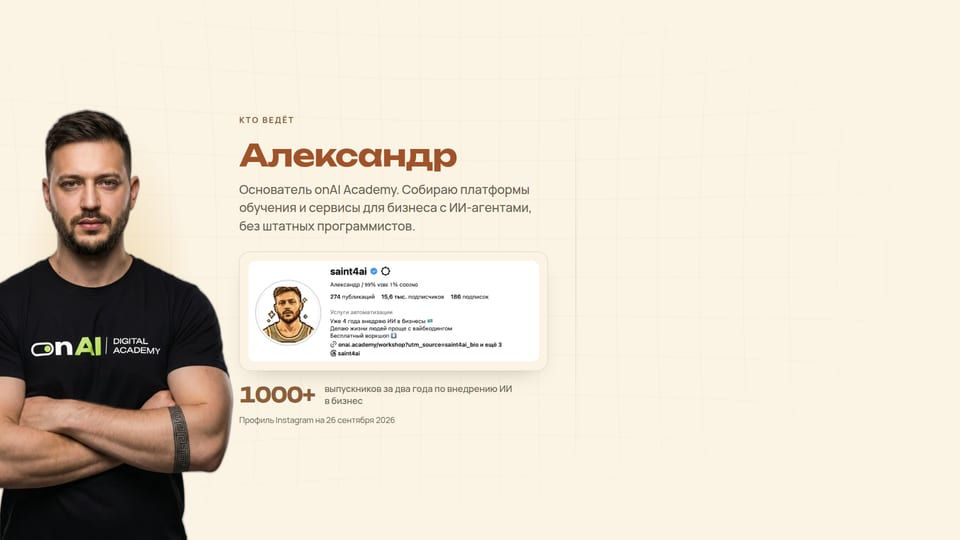
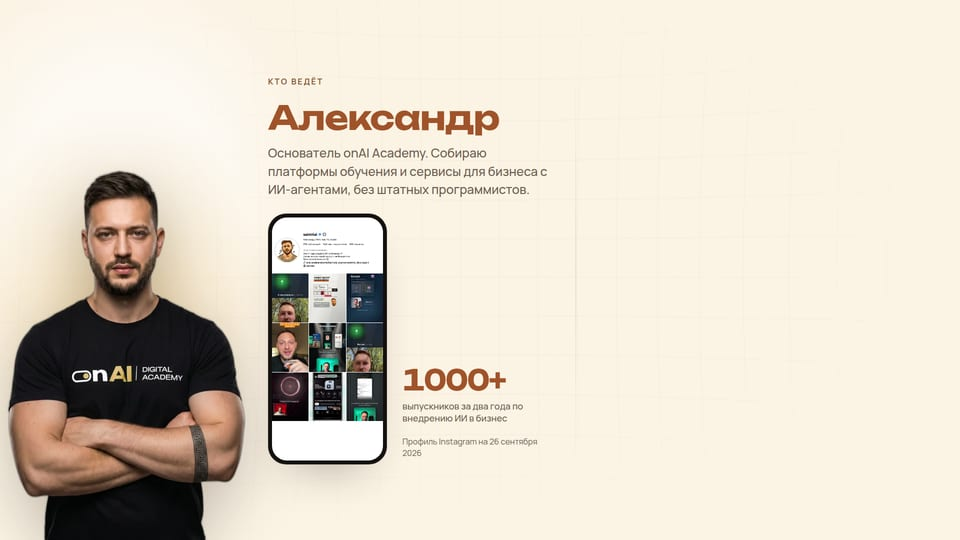
Дека v2, блок «Кто я» 08–10
08 — фото на свету и профиль Instagram в телефоне; логотип на футболке
перекрашен из салатового в золото в копии alex-cacao.webp. 09 — вау
CostDrop3D: стопка 300 000 ₸ рушится до ≈ 50 000 ₸, слайд светлый.
10 — строка докручивающихся цифр и телефоны с роликами агента.

Claude-Session: https://claude.ai/code/session_01JQvD7gcEQ7dhJKPACzWA2i

Changed region(s): [[0.0, 0.1481, 0.5625, 1.0]]

diff --git a/components/montage-deck/slides/start.tsx b/components/montage-deck/slides/start.tsx
@@ -3,6 +3,7 @@
 import { motion } from "framer-motion";
 import { SlideLayout } from "@/components/sales-deck/SlideLayout";
 import { useCountUp } from "@/components/sales-deck/useCountUp";
+import { CostDrop3D } from "../fx";
 import { MontageBg } from "../MontageBg";
 import { Phone } from "../Phone";
 import { Statement } from "../Statement";
@@ -143,70 +144,82 @@ export function M_Guides({ kicker, title, lead }: { kicker: string; title: strin
   );
 }
 
-/** 8 · Кто я. */
-export function M_About() {
+/** Телефон с профилем Instagram: шапка профиля — скрин, ниже сетка рилсов, смонтированных агентом. */
+function ProfilePhone({ width = "12.4cqw" }: { width?: string }) {
+  // Рилсы агента и кадры настоящих роликов из форматов (слайд 23)
+  const grid = ["reels/mcp", "reels/zashita", "reels/google10", "reels/papka", "reels/podarok", "formats/01-polovina-ekrana", "formats/02-polovina-okno", "formats/03-kartochka-spikera", "formats/04-spiker-vnizu"];
   return (
-    <SlideLayout className="bg-transparent" background={<MontageBg tone="soft" />} objectColumnSize="22cqw" objectOverflow="visible"
-      leftObject={
-        <motion.div className="relative w-full h-full" initial={{ opacity: 0, y: 30 }} animate={{ opacity: 1, y: 0 }} transition={{ duration: 0.7, ease: EASE }}>
-          <div className="absolute inset-x-[8%] bottom-[8%] top-[22%]" style={{ borderRadius: 999, background: `radial-gradient(closest-side, rgba(227,192,123,.55), transparent)` }} />
-          <img src="/montage/alex.webp" alt="Александр" className="absolute bottom-0 left-[44%] h-[84%] w-auto max-w-none" style={{ translate: "-50% 0" }} />
-        </motion.div>
-      }>
-      <Rise><Kicker>Кто ведёт</Kicker></Rise>
-      <Rise delay={0.08}><H size="3.2cqw">Александр</H></Rise>
-      <Rise delay={0.14}><Lead style={{ marginTop: "0.8cqw" }}>Основатель onAI Academy. Собираю платформы обучения и сервисы для бизнеса с ИИ-агентами, без штатных программистов.</Lead></Rise>
-      <Rise delay={0.25} style={{ ...glass, borderRadius: 22, padding: "0.9cqw", marginTop: "1.8cqw", maxWidth: "34cqw" }}>
-        <img src="/montage/profile.jpg" alt="Профиль saint4ai в Instagram: 15,6 тыс. подписчиков" style={{ width: "100%", height: "auto", borderRadius: 14, display: "block" }} />
-      </Rise>
-      <Rise delay={0.35} className="flex items-center gap-[1cqw]" style={{ marginTop: "1.2cqw" }}>
-        <Num size="2.2cqw" color={T.accent}>1000+</Num>
-        <span style={{ ...label, fontSize: "0.95cqw", color: T.muted, fontWeight: 500, maxWidth: "20cqw" }}>выпускников за два года по внедрению ИИ в бизнес</span>
-      </Rise>
-      <Note style={{ marginTop: "0.8cqw" }}>Профиль Instagram на 26 сентября 2026</Note>
-    </SlideLayout>
+    <div style={{ width, aspectRatio: "9/19", background: T.night, borderRadius: "1.9cqw", padding: "0.42cqw", boxShadow: `0 0 0 1px ${T.nightLine} inset, ${T.shadow}` }}>
+      <div className="relative h-full w-full overflow-hidden" style={{ borderRadius: "1.55cqw", background: T.paper }}>
+        <img src="/montage/profile.jpg" alt="Профиль saint4ai в Instagram: 15,6 тыс. подписчиков" style={{ display: "block", width: "100%", height: "auto", marginTop: "12%" }} />
+        <div className="grid grid-cols-3" style={{ gap: 1, marginTop: "4%" }}>
+          {grid.map((r) => <img key={r} src={`/montage/${r}.jpg`} alt="" style={{ width: "100%", aspectRatio: "3/4", objectFit: "cover", display: "block" }} />)}
+        </div>
+      </div>
+    </div>
   );
 }
 
-/** 9 ✦ · Было 300 000 ₸, стало около 50 000 ₸: старая цена зачёркивается. */
-export function M_CostStory() {
-  const after = useCountUp(50000, 1.1, 1.5);
-  const sub: React.CSSProperties = { fontFamily: "var(--font-manrope)", fontSize: "1cqw", lineHeight: 1.4, color: "rgba(251,243,228,.7)", marginTop: "0.9cqw" };
+/** 8 · Кто я: фото на свету, рядом скрин профиля в телефоне. alex-cacao.webp — alex.webp, где салатовый логотип на футболке перекрашен в золото бренда. */
+export function M_About() {
   return (
-    <SlideLayout className="bg-transparent" background={<MontageBg tone="ink" />}>
-      <Px name="lg-s09-coins" size="10cqw" style={{ marginBottom: "0.6cqw", marginLeft: "-0.6cqw" }} />
-      <Rise><Kicker color={T.gold}>Моя история</Kicker></Rise>
-      <Rise delay={0.08}><H size="2.6cqw" color={T.paper}>Сколько мне стоит монтаж 30 роликов в месяц</H></Rise>
-      <div className="flex items-end gap-[2.4cqw]" style={{ marginTop: "3cqw" }}>
-        <Rise delay={0.2}>
-          <div style={{ ...sub, marginTop: 0, fontWeight: 700, color: "rgba(251,243,228,.85)" }}>Было: монтажёр</div>
-          <div className="relative inline-block" style={{ marginTop: "0.8cqw" }}>
-            <Num size="3.6cqw" color="rgba(251,243,228,.55)">{nb("300 000 ₸")}</Num>
-            <motion.div className="absolute left-[-3%] right-[-3%] top-1/2" initial={{ scaleX: 0 }} animate={{ scaleX: 1 }} transition={{ delay: 1, duration: 0.45, ease: EASE }}
-              style={{ height: "0.32cqw", marginTop: "-0.16cqw", background: T.gold2, borderRadius: 4, transformOrigin: "left", rotate: "-4deg" }} />
-          </div>
-          <div style={sub}>30 роликов по {nb("10 000 ₸")}</div>
-        </Rise>
-        <motion.div initial={{ opacity: 0, x: -10 }} animate={{ opacity: 1, x: 0 }} transition={{ delay: 1.35, duration: 0.4 }} style={{ paddingBottom: "3.2cqw" }}><Arrow color={T.gold} /></motion.div>
-        <motion.div initial={{ opacity: 0, y: 14 }} animate={{ opacity: 1, y: 0 }} transition={{ delay: 1.4, duration: 0.5, ease: EASE }}>
-          <div style={{ ...sub, marginTop: 0, fontWeight: 700, color: T.gold }}>Стало: агент на Claude</div>
-          <div style={{ marginTop: "0.8cqw" }}><Num size="3.6cqw" color={T.gold}>{`≈\u00A0${thousands(after)}\u00A0₸`}</Num></div>
-          <div style={sub}>около {nb("50 000 ₸")} за те же 30 роликов</div>
+    <SlideLayout className="bg-transparent" background={<MontageBg tone="soft" />} objectColumnSize="25cqw" objectOverflow="visible"
+      leftObject={
+        <motion.div className="relative w-full h-full" initial={{ opacity: 0, y: "2cqw" }} animate={{ opacity: 1, y: "0cqw" }} transition={{ duration: 0.6, ease: EASE }}>
+          {/* Свет: белый блик сверху и золотое пятно за спиной, без жёстких краёв */}
+          <div className="absolute" style={{ left: "-30%", right: "-30%", top: "-6%", height: "70%", background: `radial-gradient(closest-side, ${T.paper}, ${T.paper}00)` }} />
+          <div className="absolute" style={{ left: "-10%", right: "-10%", top: "16%", bottom: "-4%", background: `radial-gradient(closest-side, ${T.gold}B3, ${T.gold}33 60%, ${T.gold}00)` }} />
+          <img src="/montage/alex-cacao.webp" alt="Александр" className="absolute bottom-0 left-[52%] h-[72%] w-auto max-w-none" style={{ translate: "-50% 0", filter: "drop-shadow(0 2cqw 3cqw rgba(42,33,28,.25))" }} />
         </motion.div>
+      }>
+      <Rise><Kicker>Кто ведёт</Kicker></Rise>
+      <Rise delay={STEP}><H size="3.4cqw">Александр</H></Rise>
+      <Rise delay={STEP * 2}><Lead style={{ marginTop: "0.8cqw", maxWidth: "31cqw" }}>Основатель onAI Academy. Собираю платформы обучения и сервисы для бизнеса с ИИ-агентами, без штатных программистов.</Lead></Rise>
+      <div className="flex items-end gap-[1.6cqw]" style={{ marginTop: "1.6cqw" }}>
+        <motion.div initial={{ opacity: 0, y: "2cqw", rotate: -4 }} animate={{ opacity: 1, y: "0cqw", rotate: 0 }} transition={{ delay: at(3, 0.2), duration: 0.55, ease: EASE }}>
+          <ProfilePhone />
+        </motion.div>
+        <Rise delay={at(4, 0.2)} style={{ paddingBottom: "0.6cqw" }}>
+          <Num size="3cqw" color={T.brown}>1000+</Num>
+          <div style={{ ...label, fontSize: "0.95cqw", color: T.muted, fontWeight: 500, maxWidth: "15cqw", marginTop: "0.6cqw" }}>выпускников за два года по внедрению ИИ в бизнес</div>
+          <Note style={{ marginTop: "1.2cqw", maxWidth: "15cqw" }}>Профиль Instagram на 26 сентября 2026</Note>
+        </Rise>
       </div>
     </SlideLayout>
   );
 }
 
-/** 10 · 15 рилсов, 140 689 просмотров: превью смонтированных агентом роликов без отдельных цифр. */
+/** 9 ✦ · Моя история: стопка плит «300 000 ₸ на монтажёра» рушится до «≈ 50 000 ₸ на Claude». */
+export function M_CostStory() {
+  return (
+    <Statement kicker="Моя история" title={<>Сколько мне стоит <Em>монтаж 30 роликов</Em> в месяц</>} size="2.7cqw">
+      <div style={{ marginTop: "0.4cqw" }}>
+        <CostDrop3D from={{ value: nb("300 000 ₸"), label: `Было: монтажёр · 30 роликов по ${nb("10 000 ₸")}` }}
+          to={{ value: `≈\u00A0${nb("50 000 ₸")}`, label: `Стало: агент на Claude · около ${nb("50 000 ₸")} за те же 30 роликов` }} />
+      </div>
+    </Statement>
+  );
+}
+
+/** 10 · 15 рилсов, 140 689 просмотров: строка докручивающихся цифр и превью роликов, смонтированных агентом. */
 export function M_Proof15() {
   const reels = ["mcp", "zashita", "google10", "papka"];
+  const n15 = useCountUp(15, 0.9, 0.3);
+  const views = useCountUp(140689, 1.3, 0.35);
   return (
     <Statement kicker="Статистика Instagram" title={<>15 рилсов: {nb("140 689")} просмотров</>} lead="Все смонтированы с ИИ-агентом. Всё, что покажу сегодня, работает у меня прямо сейчас." size="2.8cqw">
-      <div className="flex gap-[1cqw]">
+      <div className="flex items-stretch gap-[1cqw]">
+        {[[String(n15), "рилсов"], [thousands(views), "просмотров"]].map(([v, l], i) => (
+          <motion.div key={l} {...inUp(i, 0.22)} style={{ ...card, padding: "1cqw 1.6cqw" }}>
+            <Num size="3.4cqw" color={T.brown}>{v}</Num>
+            <div style={{ ...label, color: T.muted, marginTop: "0.4cqw" }}>{l}</div>
+          </motion.div>
+        ))}
+      </div>
+      <div className="flex gap-[0.9cqw]" style={{ marginTop: "1.4cqw" }}>
         {reels.map((r, i) => (
-          <motion.div key={r} initial={{ opacity: 0, y: 24 }} animate={{ opacity: 1, y: 0 }} transition={{ delay: 0.35 + i * 0.1, duration: 0.55, ease: EASE }}>
-            <Phone video={`/montage/reels/${r}.mp4`} src={`/montage/reels/${r}.jpg`} width="8.6cqw" chrome={false} />
+          <motion.div key={r} {...inUp(2 + i, 0.22)}>
+            <Phone video={`/montage/reels/${r}.mp4`} src={`/montage/reels/${r}.jpg`} width="7.6cqw" chrome={false} />
           </motion.div>
         ))}
       </div>

diff --git a/docs/deck-v2/REPORT.md b/docs/deck-v2/REPORT.md
@@ -53,6 +53,7 @@
 | Блок | Что сделано | Коммит |
 |---|---|---|
 | Старт 02–07 | опросы большими карточками с крупной цифрой, программа — три высокие карточки, гайды веером в 3D | `c1dcd32` |
+| Кто я 08–10 | фото на свету + профиль в телефоне; 09 — CostDrop3D; 10 — строка докручивающихся цифр | BLOCKHASH |
 
 #### Старт 02–07
 - **02** — десять клавиш оценки крупнее, в карточках сайта; «10» — золотая кнопка.
@@ -62,12 +63,18 @@
 - **07 и 58** — три обложки гайдов раскрываются веером в 3D из одной стопки (наклон и поворот карточек). `GiftBox3D` не взят: он в лайме и чёрном, перекрасить пропсами нельзя.
 - Въезд: шаг 70 мс, всё на месте к ~0,7 с.
 
+#### Кто я 08–10
+- **08** — фото на свету (белый блик сверху, золотое пятно за спиной, без жёстких краёв), рядом телефон со скрином профиля Instagram и сеткой рилсов 3×3 (рилсы агента и кадры настоящих роликов со слайда 23), «1000+ выпускников». `IPhoneMockup` из sales-deck не взят: в нём зашито лаймовое свечение; телефон свой, в цветах ночи.
+- **08, фото**: на футболке в `alex.webp` салатовый логотип onAI. Сделана копия `public/montage/alex-cacao.webp`: салатовые пиксели в области логотипа перекрашены в золото бренда (тон `#E3C07B`), остальное фото не тронуто, салатового на снимке не осталось. Оригинал `alex.webp` не менялся. ⚠ Спорно — см. «Спорные слайды».
+- **09 ✦** — `CostDrop3D`: стопка из 30 коричневых плит («300 000 ₸», было: монтажёр · 30 роликов по 10 000 ₸) рушится до 5 золотых («≈ 50 000 ₸», стало: агент на Claude · около 50 000 ₸ за те же 30 роликов). Слайд стал светлым (ночь — только обложка, главы, 44 и 59). Лего-монеты убраны: вау здесь — стопка. Скрин снимается через 4,2 с — к концу обвала.
+- **10** — строка докручивающихся цифр «15 рилсов» и «140 689 просмотров» (своя докрутка `useCountUp`: `AnimatedNumber` из sales-deck в лайме), ниже четыре телефона с роликами агента. Цифры встают за ~1,7 с.
+
 ## Проверки
 - `npx tsc --noEmit`: в `components/montage-deck/` и `app/montage*` ошибок 0. Всего в проекте 4 ошибки, все были до меня и вне разрешённых папок: `components/ui/highlighted.tsx`, `next.config.ts` (ключ `eslint`), `tests/landing.spec.ts` ×2. Их не трогал.
 - `WEBINAR_LOCAL=1 npx next build` — проходит.
 
 ## Спорные слайды
-_пока нет_
+- **08** — на футболке в исходном фото `alex.webp` салатовый логотип onAI (правило: зелёного логотипа быть не должно). На слайде стоит копия `alex-cacao.webp`, где логотип перекрашен в золото. Если перекраска фото не годится — нужен другой снимок.
 
 ## Что нужно от владельца для `results.ts`
 Вписать в `components/montage-deck/results.ts` (числом, без пробелов) и положить файлы в `public/montage/results/`:
@@ -91,4 +98,5 @@ _пока нет_
 Подписи источников `montage.source` («Статистика Instagram за сентябрь 2026») и `bot.source` («Статистика бота за сентябрь 2026») — проверьте формулировку.
 
 ## Вопросы
+0. **Запрос сессии «Вебинар» на коммерческий PDF (ветка `claude/commercial-deck`)**: из этого облачного контейнера сайт onai.academy не открывается — сетевой прокси блокирует его и для curl, и для WebFetch. По правилу самого запроса («если сайт из облака не открывается — остановись, факты не придумывай») PDF здесь не собрать. Кроме того, новая ветка и публичная ссылка на Drive — за пределами того, что поручил владелец в этой сессии, нужно его подтверждение. deck-v2 не ставилась на паузу. Чтобы работать с сайтом из облака, владелец добавляет `onai.academy` в разрешённые домены в настройках среды (Network access).
 1. Номер слайда `SlideDeck` в правом нижнем углу скрыт (зона камеры). Если он нужен ведущему на экране — скажите, верну; тогда он будет виден зрителям рядом с камерой.
